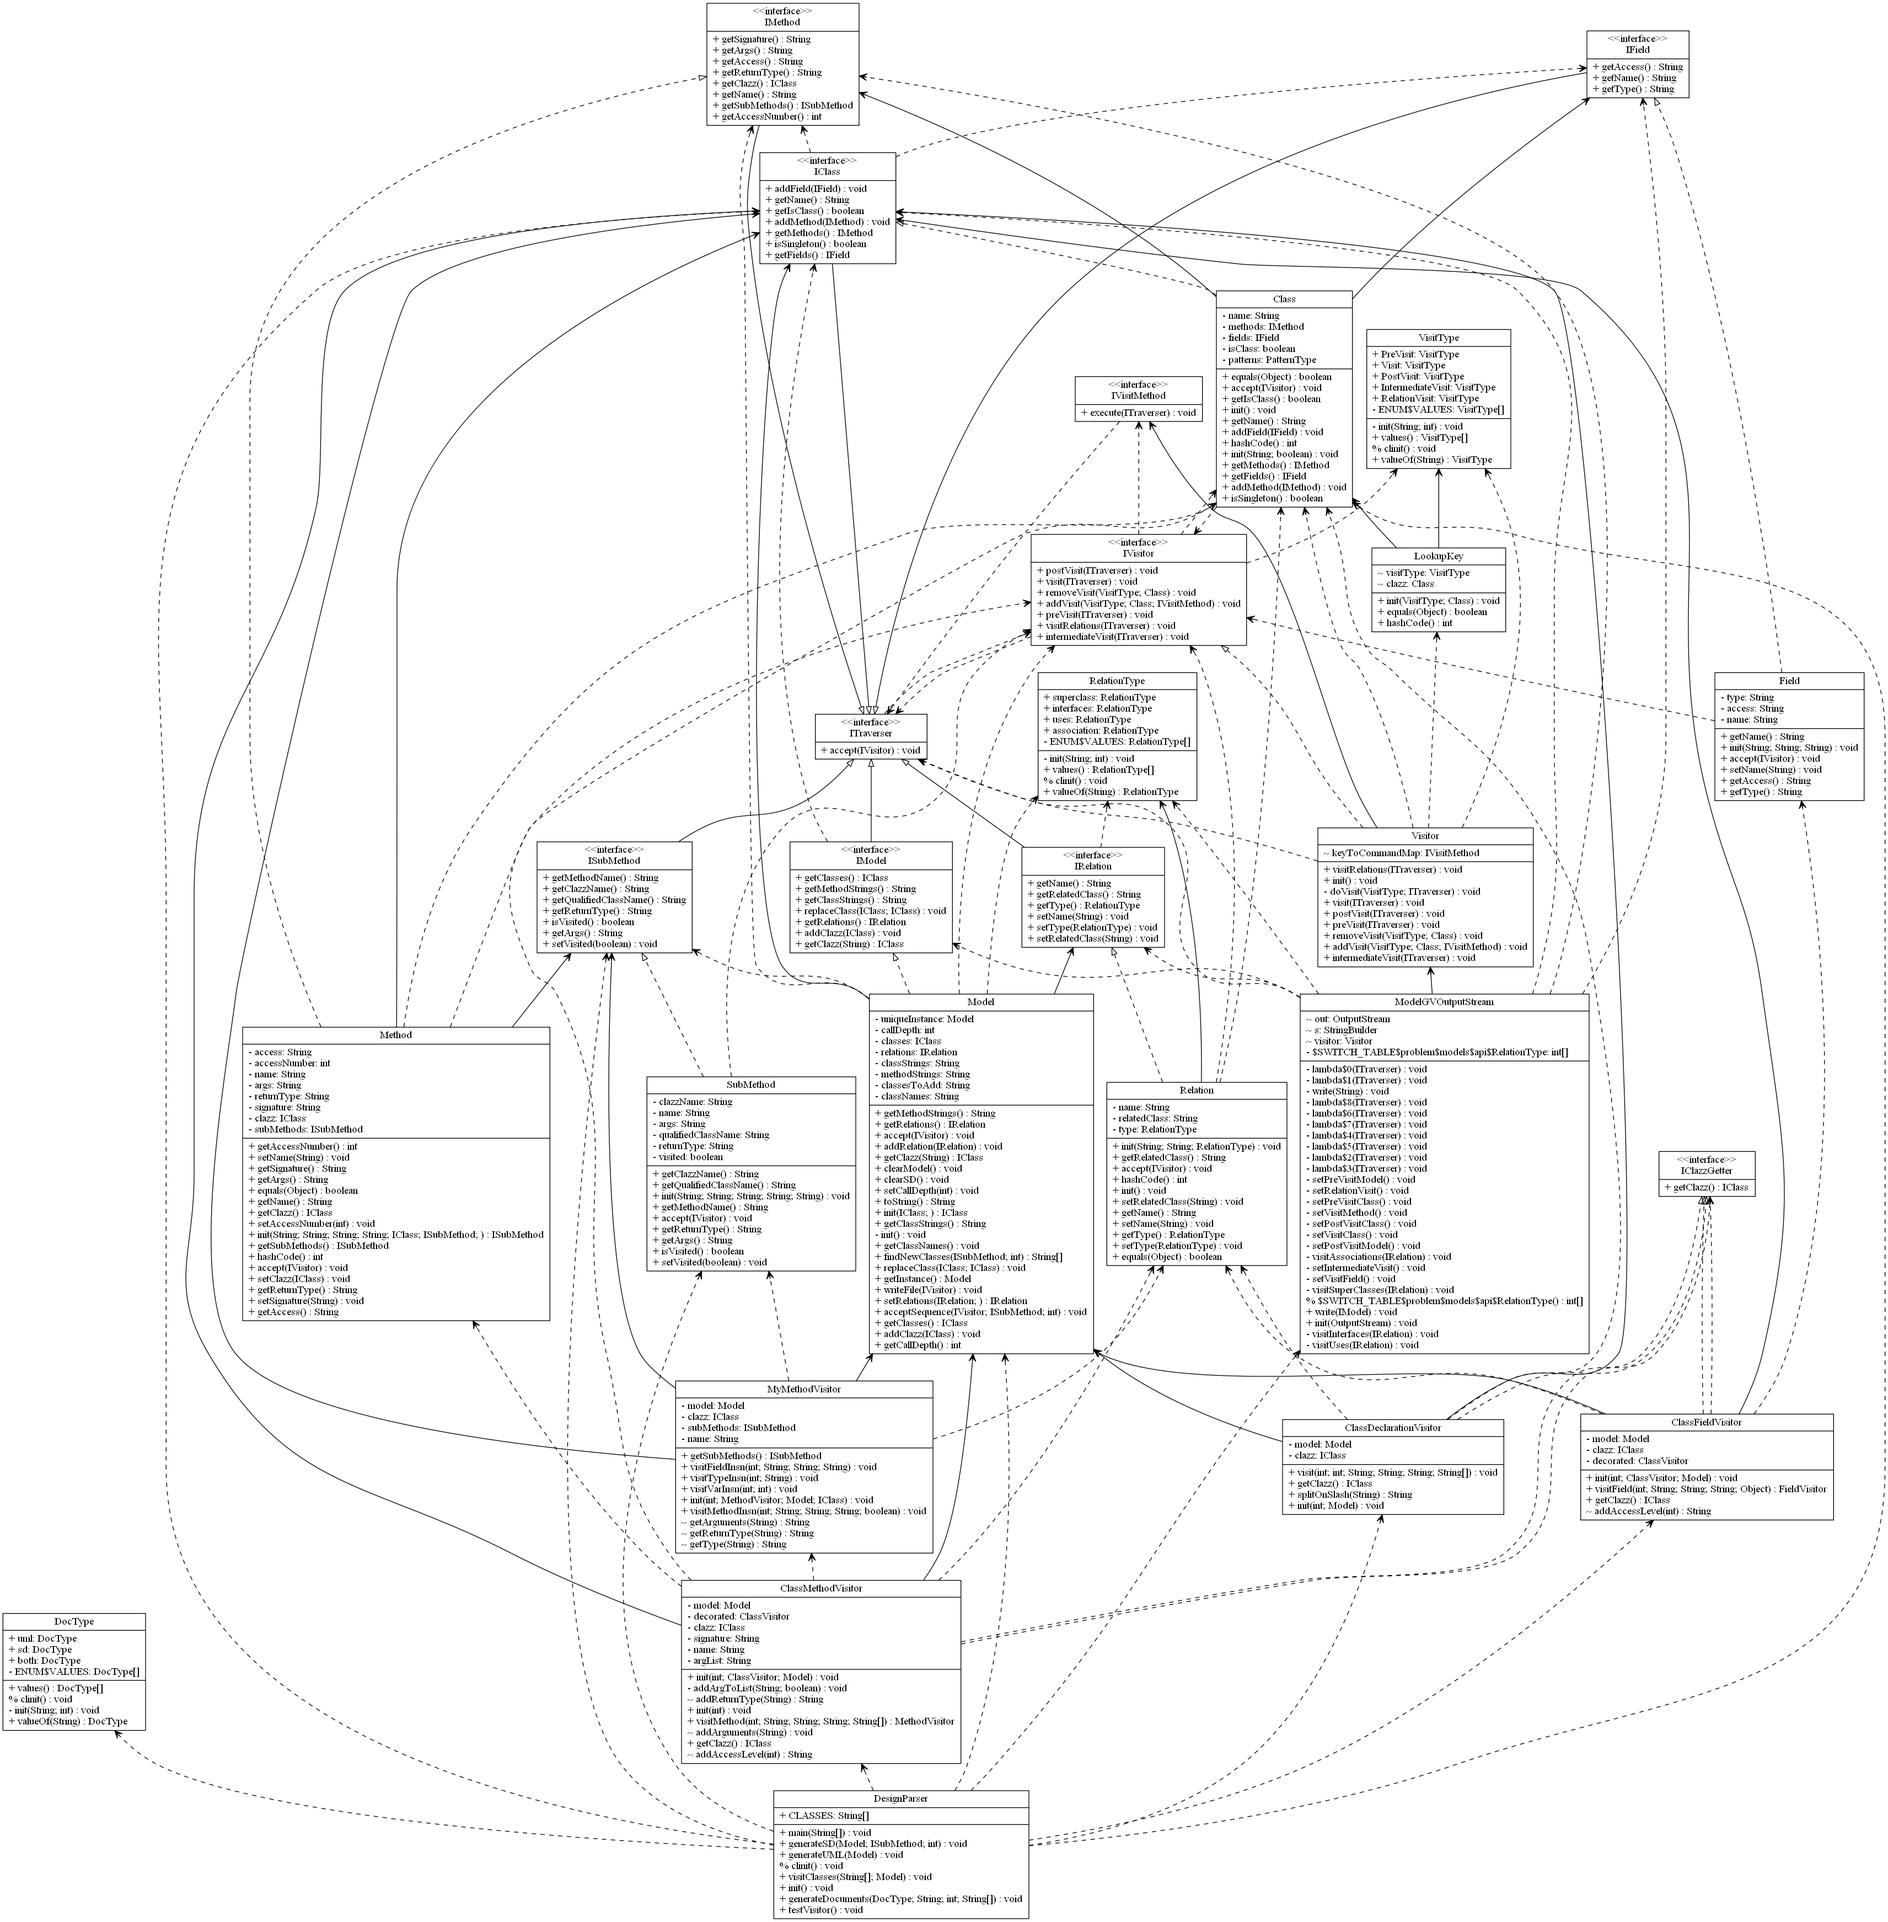
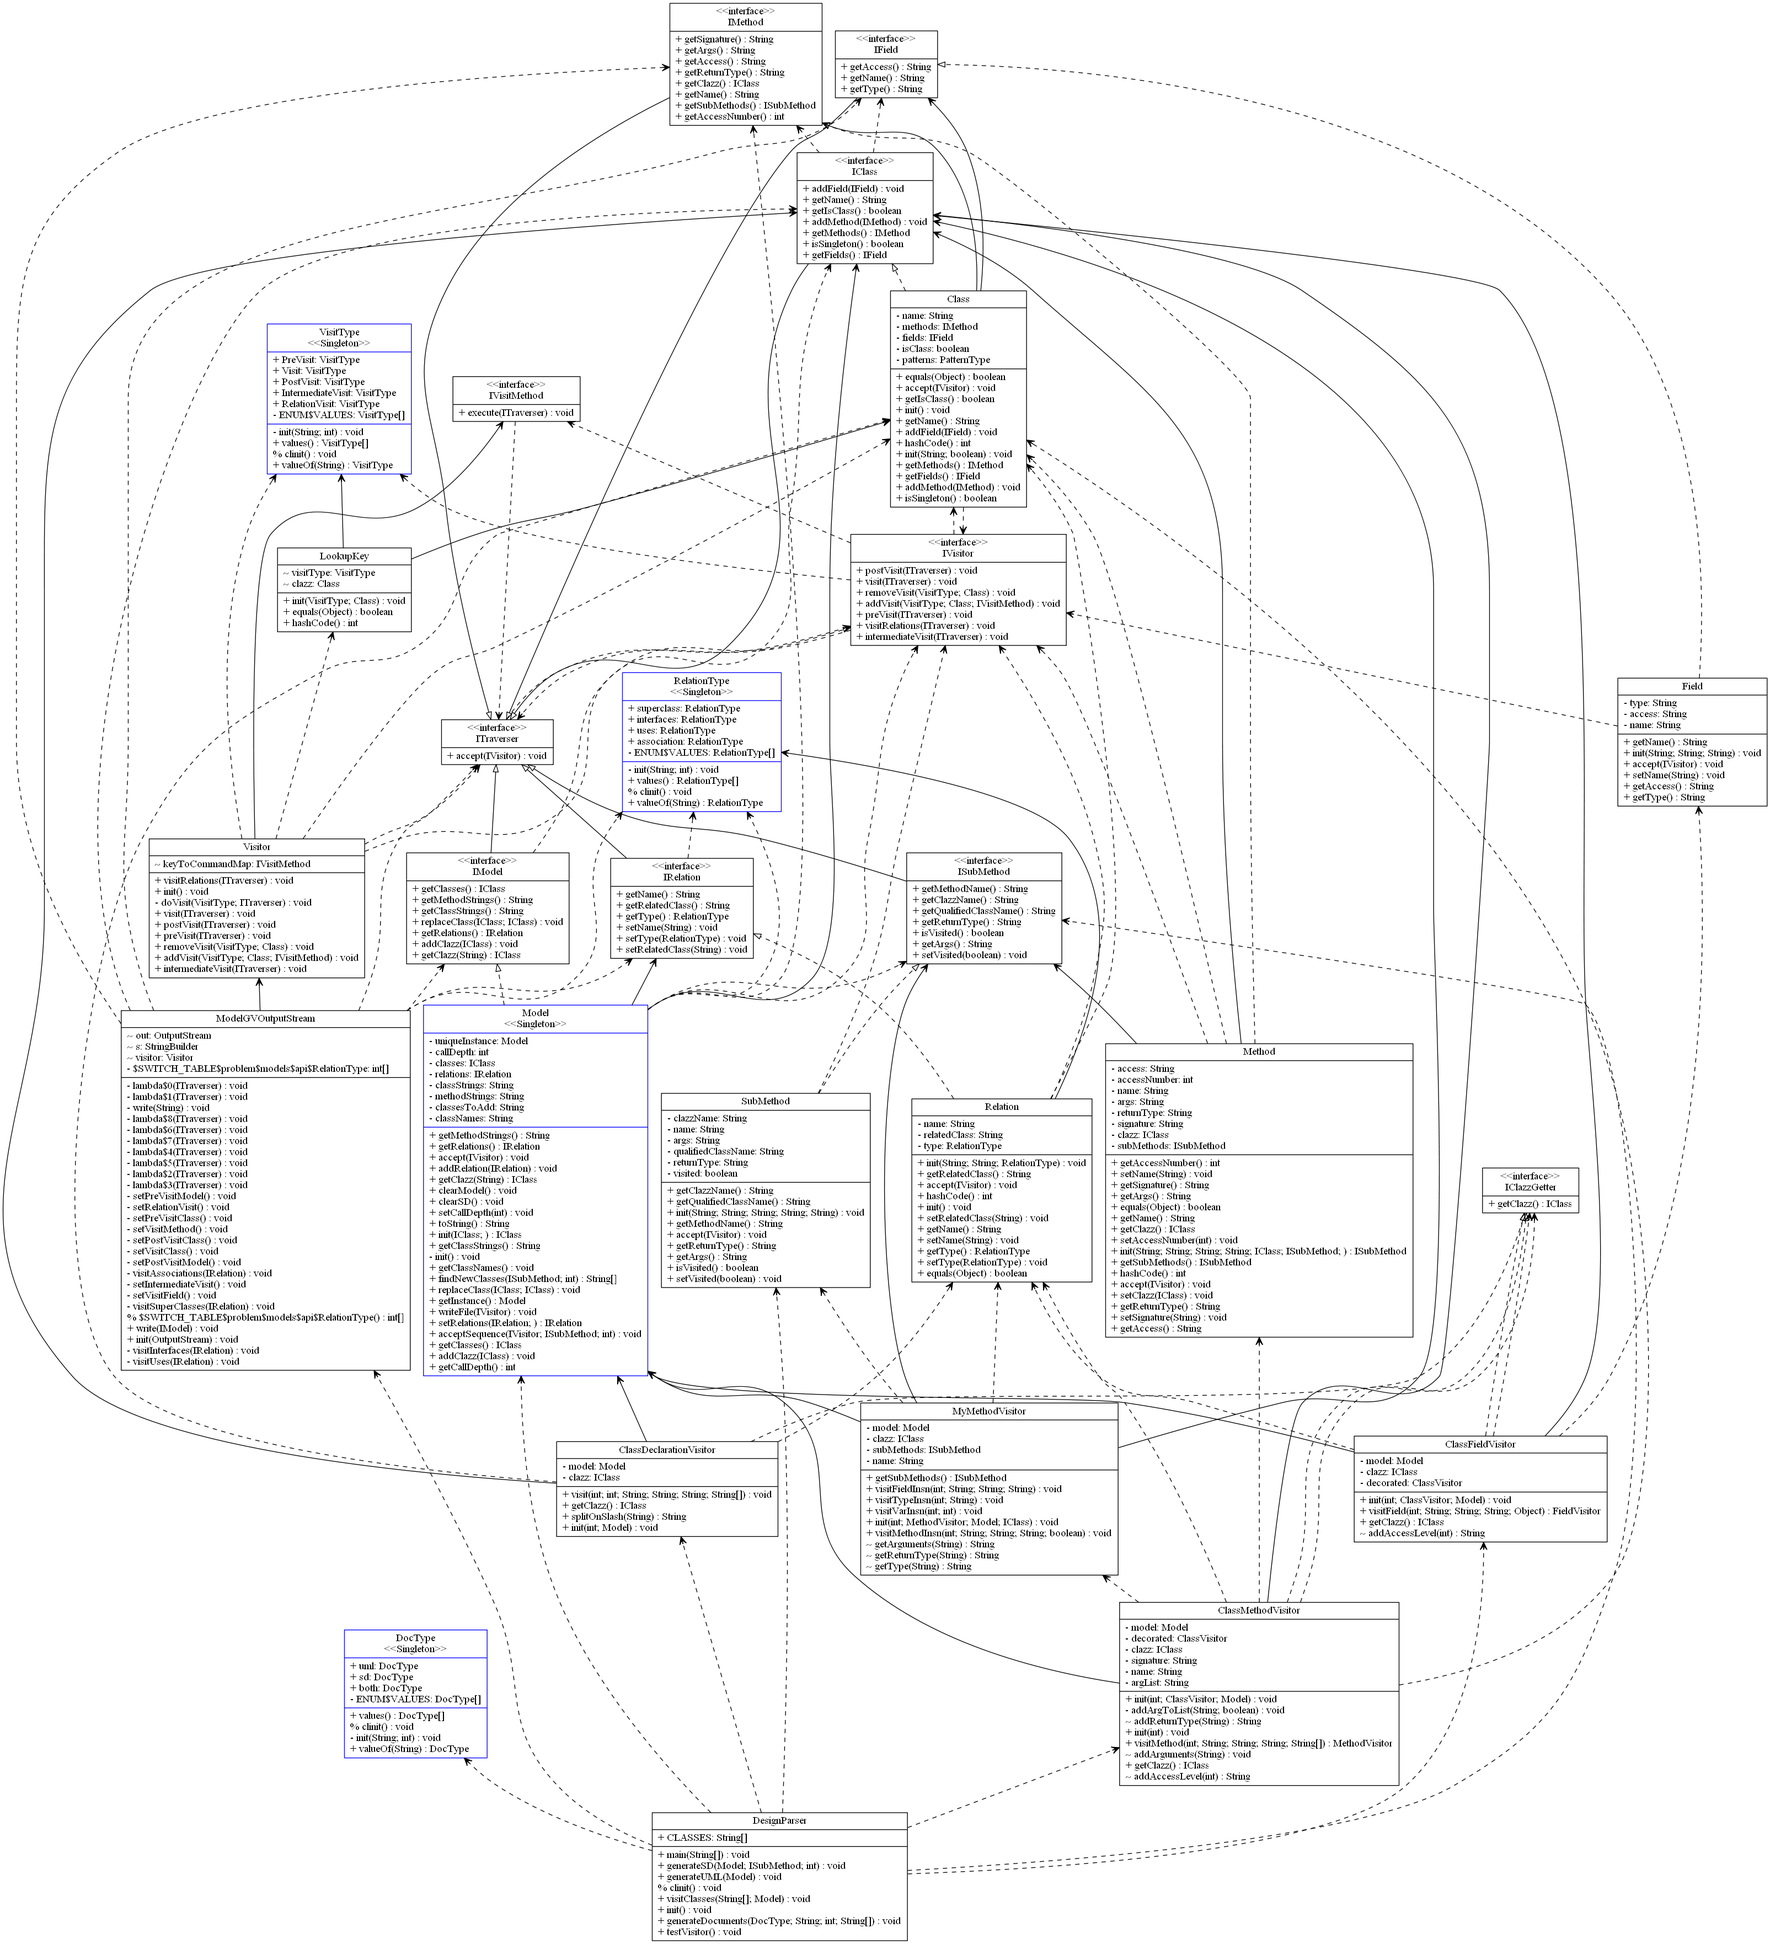
Fixed it!
Singletons are now being detected properly

diff --git a/src/problem/models/impl/ModelGVOutputStream.java b/src/problem/models/impl/ModelGVOutputStream.java
@@ -72,7 +72,7 @@ public class ModelGVOutputStream extends FilterOutputStream {
 		this.visitor.addVisit(VisitType.PreVisit, IClass.class, (ITraverser t) ->{
 			IClass c = (IClass) t;
 			String s;
-			if(c instanceof IPatternDetector && ((SingletonDecorator)c).getPatterns().contains(PatternType.Singleton)){
+			if(c instanceof SingletonDecorator){
 				s = String.format("%s [\nshape=\"record\",color=blue\n", c.getName());
 			} else{
 				s = String.format("%s [\nshape=\"record\",\n", c.getName());
@@ -83,18 +83,12 @@ public class ModelGVOutputStream extends FilterOutputStream {
 
 	private void setVisitClass() {
 		this.visitor.addVisit(VisitType.Visit, IClass.class, (ITraverser t) ->{
-			
-			System.out.println(t);
-			
 			IClass c = (IClass) t;
-			
-/*			System.out.println(c.getName());
-			System.out.println(c.getClass());*/
 			
 			String s;
 			if (!c.getIsClass()) {
 				s = String.format("label = \"{\\<\\<interface\\>\\>\\n%s| ", c.getName());
-			} else if(c.isSingleton()){
+			} else if(c instanceof SingletonDecorator){
 				s = String.format("label = \"{%s\\n\\<\\<Singleton\\>\\>|", c.getName());
 			} 
 			else{

diff --git a/src/problem/models/impl/SingletonDecorator.java b/src/problem/models/impl/SingletonDecorator.java
@@ -20,7 +20,20 @@ public class SingletonDecorator implements IClass {
 
 	@Override
 	public void accept(IVisitor v) {
-		thisClass.accept(v);
+		v.preVisit(this);
+		v.visit(this);
+		for (IField f : this.thisClass.getFields()) {
+			f.accept(v);
+		}
+
+		if (!this.thisClass.getFields().isEmpty()) {
+			v.intermediateVisit(this);
+		}
+
+		for (IMethod m : this.thisClass.getMethods()) {
+			m.accept(v);
+		}
+		v.postVisit(this);
 	}
 
 	@Override

diff --git a/src/problem/asm/DesignParser.java b/src/problem/asm/DesignParser.java
@@ -215,11 +215,6 @@ public class DesignParser {
 		IPatternDetector pd = new SingletonDetector(model);
 		pd.detectPatterns();
 		
-		for(IClass c : model.getClasses()){
-			System.out.println(c.getName());
-			System.out.println(c.getClass());
-		}
-		
 		ModelGVOutputStream gv = new ModelGVOutputStream(new FileOutputStream("input_output/model.gv"));
 		gv.write(model);
 		gv.close();
